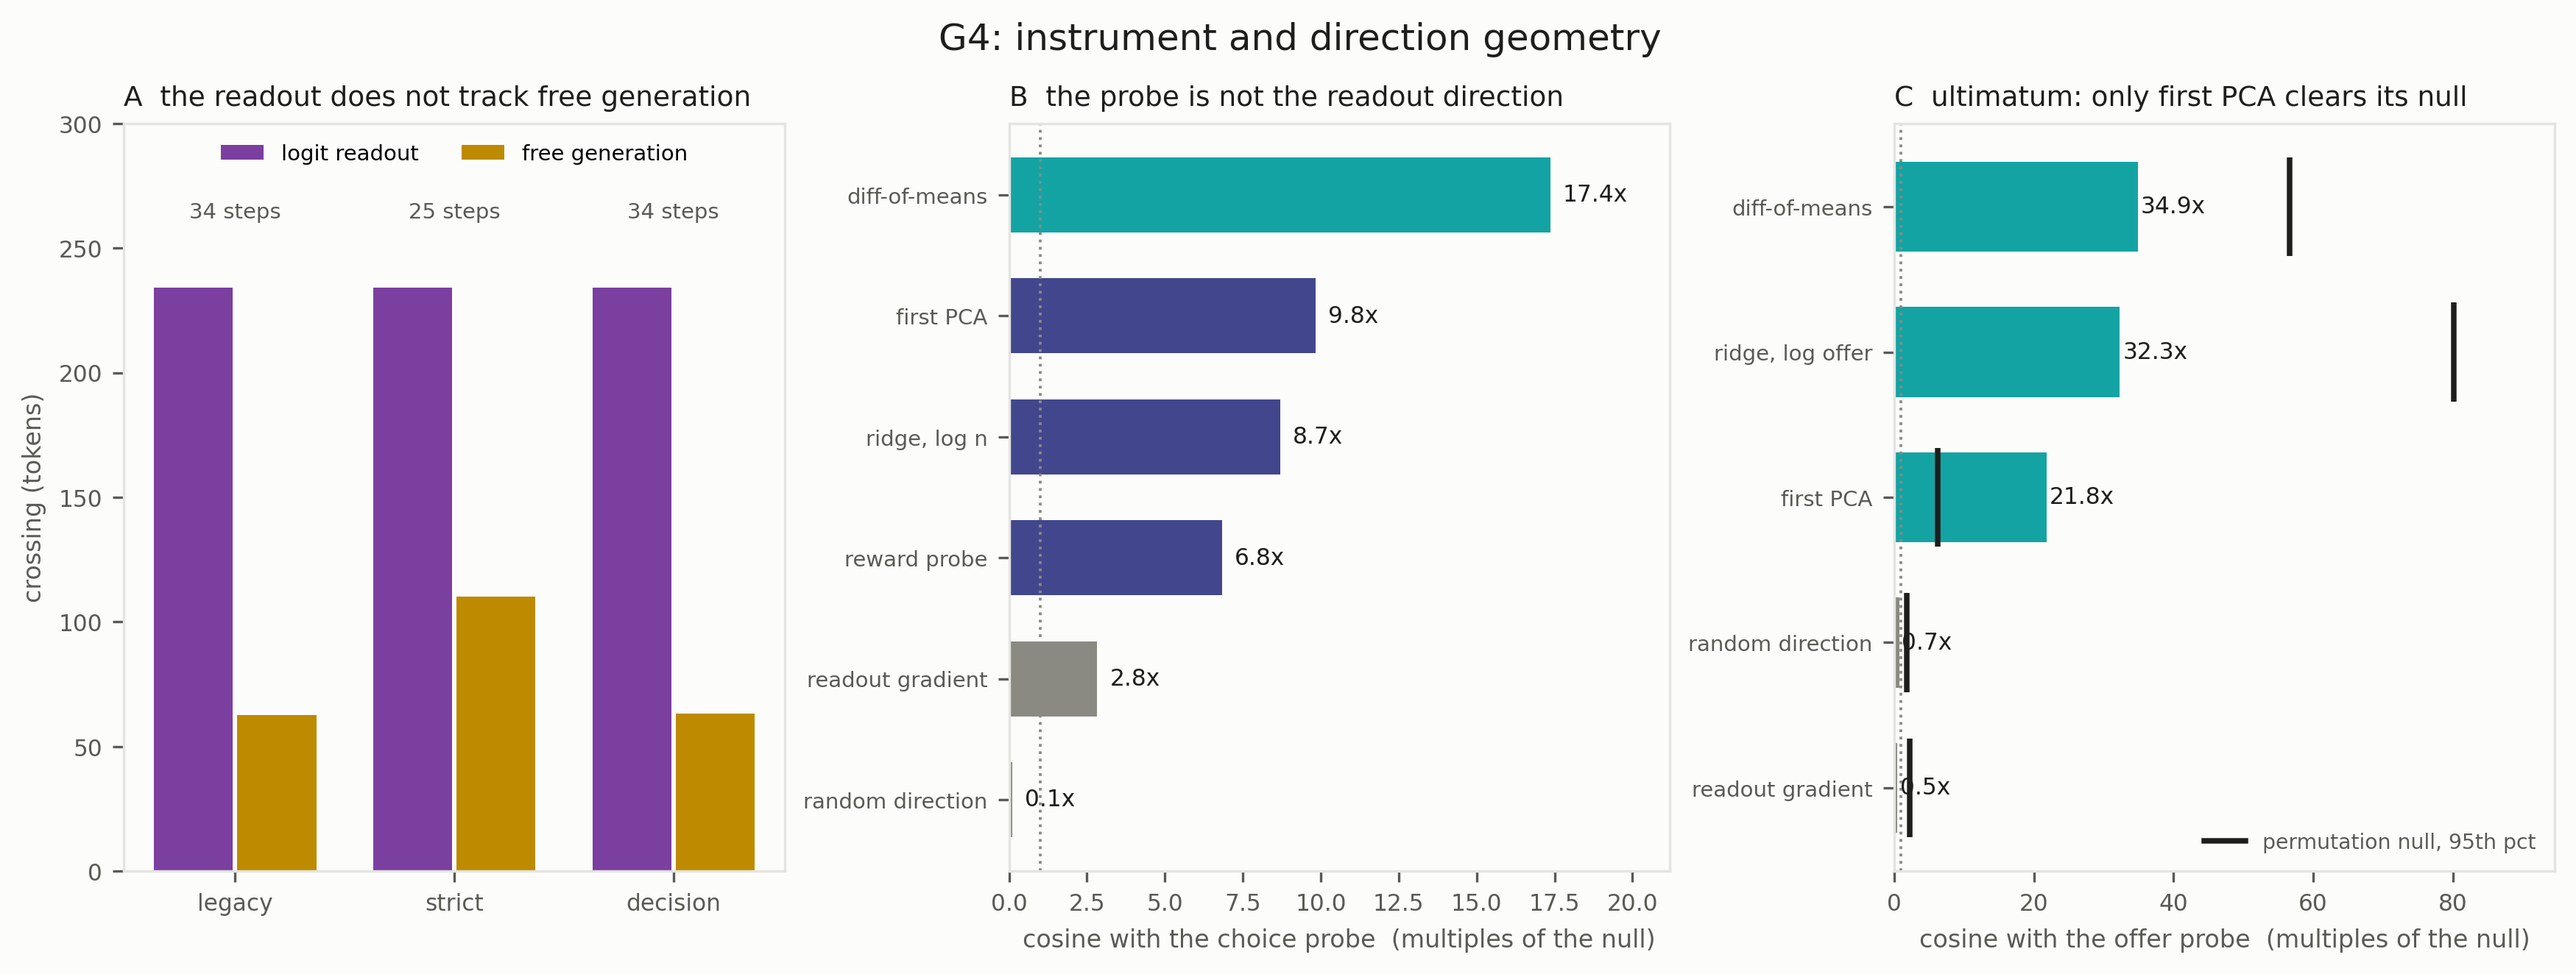
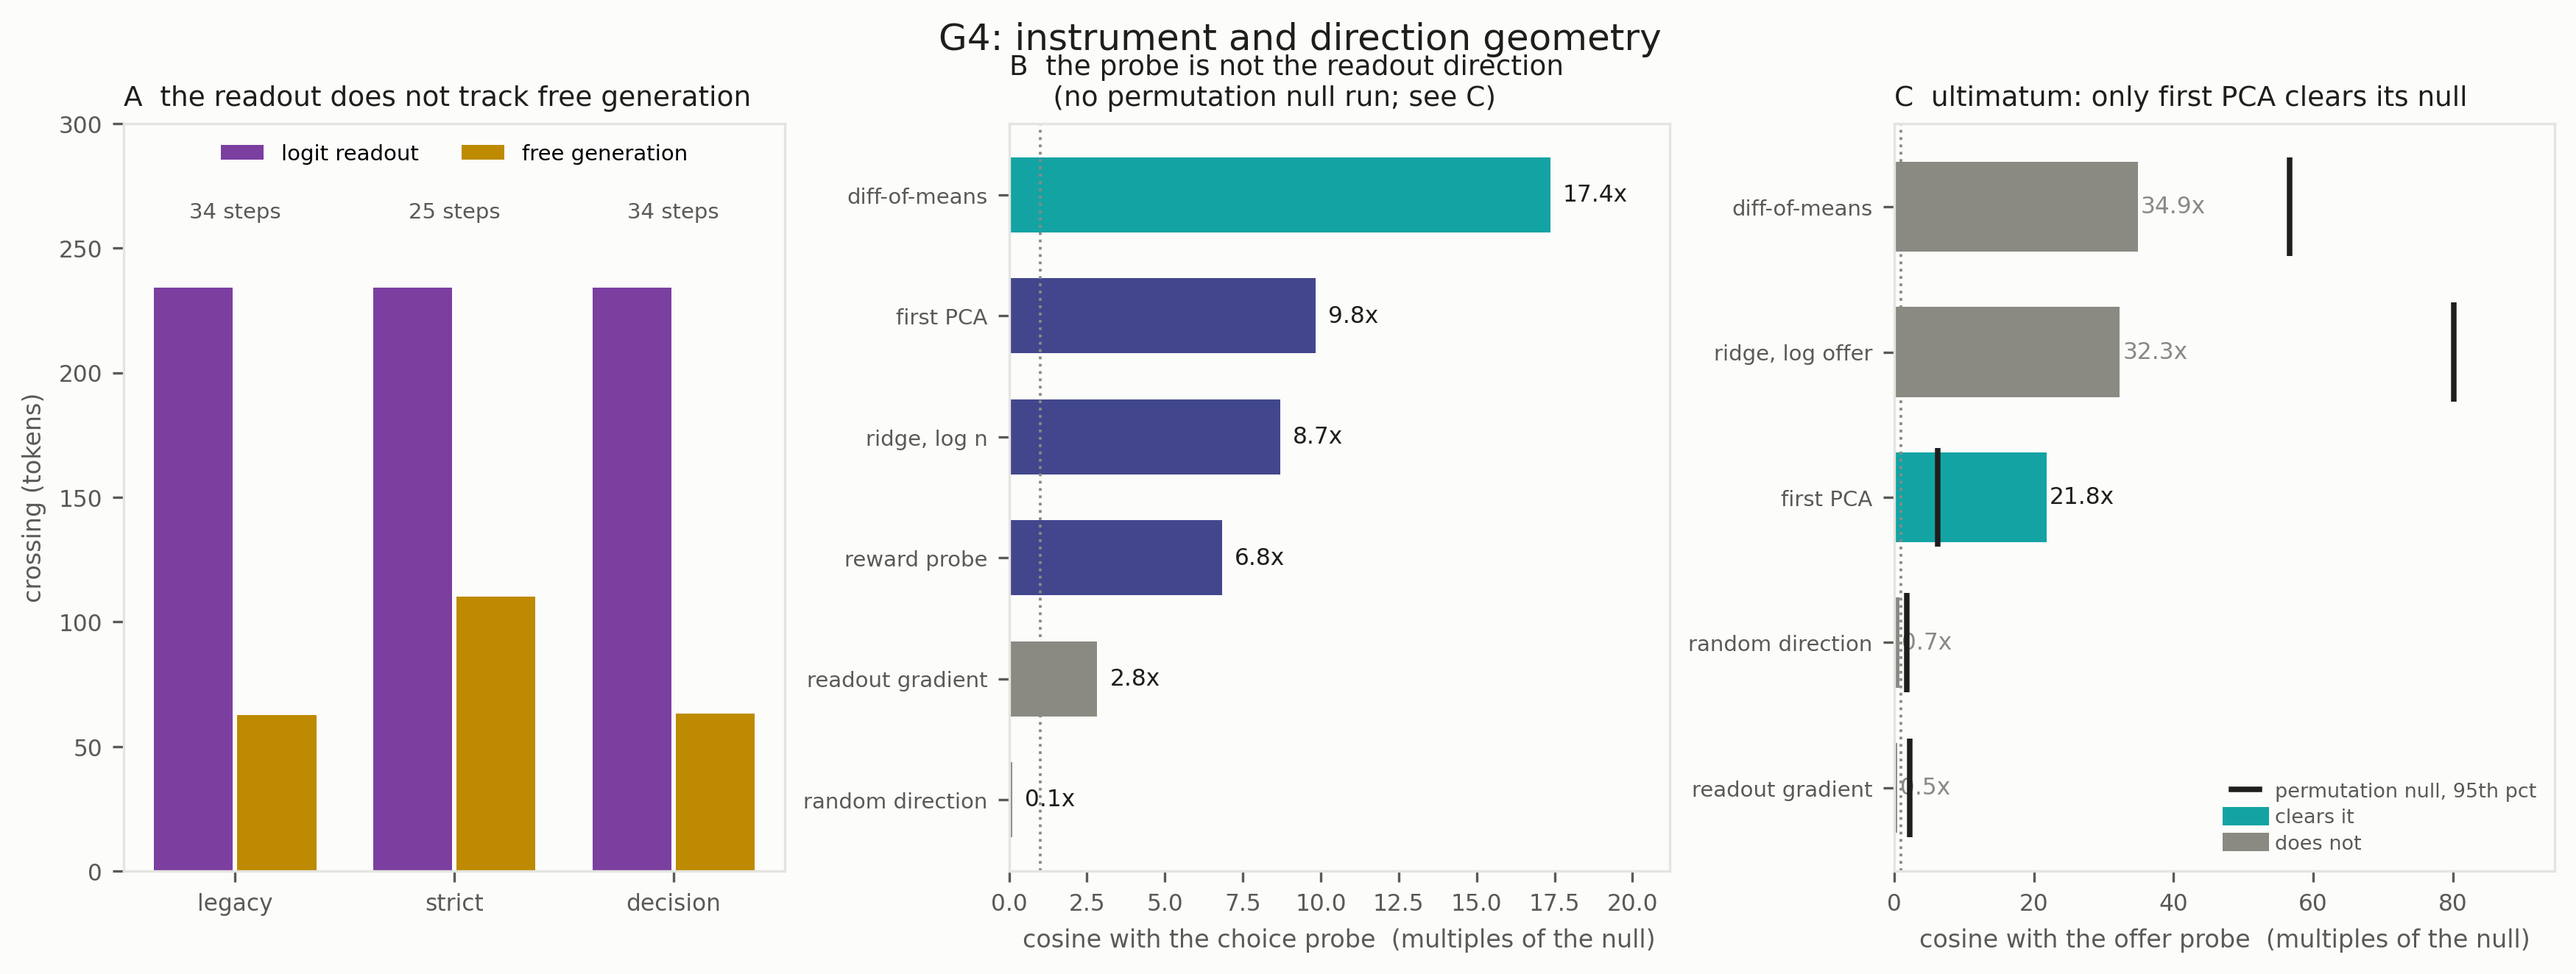
g4_summary panel C: colour by whether the bar clears its null; panel B states it has none

diff --git a/cv_bench/g4_figure.py b/cv_bench/g4_figure.py
@@ -83,7 +83,7 @@ def panel_e(ax):
     ax.set_yticklabels(labels, fontsize=7)
     ax.set_xlabel("cosine with the choice probe  (multiples of the null)",
                   color=INK2, fontsize=8)
-    ax.set_title("B  the probe is not the readout direction", color=INK, fontsize=9, loc="left")
+    ax.set_title("B  the probe is not the readout direction\n     (no permutation null run; see C)", color=INK, fontsize=9, loc="left")
 
 
 
@@ -108,7 +108,7 @@ def panel_u(ax):
     want = [("readout_gradient", "readout gradient"), ("diffmean", "diff-of-means"),
             ("pca1", "first PCA"), ("ridge_logn", "ridge, log offer"),
             ("rand0", "random direction")]
-    labels, vals, p95 = [], [], []
+    labels, vals, p95, ok = [], [], [], []
     for key, lab in want:
         m = [r for r in rs if r["direction"] == key]
         if not m:
@@ -116,18 +116,24 @@ def panel_u(ax):
         labels.append(lab)
         vals.append(float(m[0]["multiples_of_null"]))
         p95.append(float(m[0]["perm_null_p95"]))
+        ok.append(str(m[0]["clears_perm_null"]).lower() == "true")
     order = np.argsort(vals)
     labels = [labels[i] for i in order]
     p95 = [p95[i] for i in order]
+    ok = [ok[i] for i in order]
     vals = [vals[i] for i in order]
     ys = np.arange(len(vals))
-    cols = [TEAL if v >= 10 else (NAVY if v >= 3 else MUTED) for v in vals]
+    # Colour by the test, not by height. Panel B colours by magnitude, but here
+    # the two tallest bars are inside their own null, so a magnitude ramp made
+    # the most prominent bars the ones that mean least.
+    cols = [TEAL if c else MUTED for c in ok]
     ax.barh(ys, vals, color=cols, height=0.62)
     for i, q in enumerate(p95):
         ax.plot([q, q], [i - 0.34, i + 0.34], color=INK, lw=1.8, zorder=6,
                 solid_capstyle="butt")
-    for i, v in enumerate(vals):
-        ax.text(v + 0.4, i, f"{v:.1f}x", va="center", color=INK, fontsize=7.5)
+    for i, (v, c) in enumerate(zip(vals, ok)):
+        ax.text(v + 0.4, i, f"{v:.1f}x", va="center",
+                color=INK if c else MUTED, fontsize=7.5)
     ax.set_xlim(0, max(vals + p95) * 1.18)
     ax.axvline(1.0, color=MUTED, lw=0.9, ls=":")
     ax.set_yticks(ys)
@@ -138,8 +144,11 @@ def panel_u(ax):
                  color=INK, fontsize=9, loc="left")
     from matplotlib.lines import Line2D
     ax.legend(handles=[Line2D([], [], color=INK, lw=1.8,
-                              label="permutation null, 95th pct")],
-              loc="lower right", frameon=False, fontsize=6.8, labelcolor=INK2)
+                              label="permutation null, 95th pct"),
+                       Line2D([], [], color=TEAL, lw=6, label="clears it"),
+                       Line2D([], [], color=MUTED, lw=6, label="does not")],
+              loc="lower right", frameon=False, fontsize=6.5, labelcolor=INK2,
+              handlelength=1.4, labelspacing=0.35)
 
 
 def build():

diff --git a/logs/DECISIONS.md b/logs/DECISIONS.md
@@ -1553,3 +1553,30 @@ Second asymmetry, which no design choice can fix: panel B's reference is the cho
 panel C's is a probe fitted to the offer, because the ultimatum probe has one class. The two
 panels answer related but different questions and should not be read as a like-for-like
 comparison between games.
+
+## D98 — panel C coloured by the test, and why panel B has no ticks (23 Sept)
+
+Both at the authors' instruction, one a fix and one an answer.
+
+Colour. Panel C no longer uses panel B's magnitude ramp. Teal means the bar clears its own
+permutation null, grey means it does not, and the value label greys out with the bar. The ramp
+was painting diff-of-means at 34.9x and the ridge at 32.3x in the strongest colour while both
+sit inside their null, and first PCA, the only direction that clears, in the same colour at
+21.8x. Colour now carries the finding rather than the height. A three-entry legend names the
+tick and both colours. Bar geometry, label format and the dotted analytic-null rule are still
+panel B's exactly; only the fill rule changed.
+
+Why panel B has no ticks, which is not a design choice. The permutation null needs the
+activations, and only the ultimatum ones were kept: `g4u/ultimatum_activations.npz` exists and
+there is no lottery equivalent anywhere under the run root. G4b saved direction vectors and
+gradients, not the matrix they were fitted from, so the lottery null cannot be computed from
+what is on disk. Leaving one panel ticked and the other bare invites a reader to assume panel B
+passed a test it has not taken, so its title now says so: "no permutation null run; see C".
+
+This is the open item, and it is the same question panel C answers for the other game. Panel B
+has 45 levels in 8,192 dimensions and five directions all fitted from that one matrix, so its
+`multiples_of_null` axis rests on the same assumption that the ultimatum data just failed. The
+fix is a short collection job on the lottery prompts, both layers in one model load, of the same
+shape as the ultimatum one that cost 7m54s on two GPUs, so on the order of half a GPU-hour
+against 58.1 of 400 used. Not started: it is new compute two days from the deadline and the
+authors have been deciding each step, so it is theirs to call.
